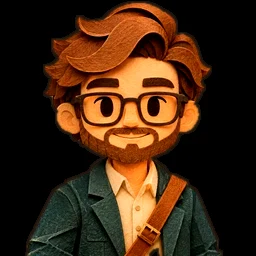
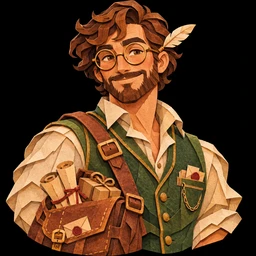
James's new art from the owner: pixel-art walk sheet and papercraft portrait in the village's style (#324)
Claude-Session: https://claude.ai/code/session_01Y5Vq5MY5R98tUMSQqTrVD3

diff --git a/index.html b/index.html
@@ -47,4 +47,4 @@ html:not([data-paperworld-maintenance="yes"]) .building-placement-panel,
 html:not([data-paperworld-maintenance="yes"]) .crow-technical-tools,
 html:not([data-paperworld-maintenance="yes"]) .village-maintenance-only {display:none!important}
 </style><script>if(new URLSearchParams(location.search).get('maintenance')==='1')document.documentElement.dataset.paperworldMaintenance='yes'</script></head><body><header><strong>PAPERWORLD</strong><span>YOUR LIVING AI VILLAGE</span></header><div class="layout"><main id="view"><canvas id="map" aria-label="Paperworld enlarged village preview; drag to move camera and tap a building to inspect"></canvas><div class="controls"><button id="path-editor-toggle" type="button" aria-pressed="false" title="Σχεδίαση διαδρομών">Paths</button><button id="building-placement-toggle" type="button" aria-pressed="false" title="Μετακίνηση κτιρίων">Τοποθέτηση κτιρίων</button><button id="world-talk-matt" type="button" aria-label="Talk to Matt" title="Talk to Matt">M</button><button id="world-work-panel" type="button" aria-label="Οι εργασίες μου" title="Οι εργασίες μου">✓</button><button id="depth-demo" class="depth-demo" type="button" aria-label="Cycle isometric depth test">Depth test: Off</button><button id="plus" aria-label="Zoom in">+</button><button id="minus" aria-label="Zoom out">−</button><button id="home" aria-label="Fit world">⌂</button></div><section id="path-editor-panel" class="building-placement-panel path-editor-panel" hidden aria-label="Σχεδιασμός διαδρομών"><strong>Σχεδίαση διαδρομών</strong><p id="path-editor-status">Επεξεργασία διαδρομών</p><label for="path-editor-mode">Εργαλείο</label><select id="path-editor-mode"><option value="draw">Σχεδίαση / σύνδεση</option><option value="move">Μετακίνηση κόμβου</option><option value="erase">Διαγραφή σύνδεσης</option><option value="hidden">Κρυφή διαδρομή</option></select><label class="path-editor-check"><input id="path-editor-show-hidden" type="checkbox" checked> Εμφάνιση κρυφών διαδρομών</label><div class="building-placement-actions"><button id="path-editor-undo" type="button">Αναίρεση</button><button id="path-editor-reset" type="button">Επαναφορά paths</button><button id="path-editor-copy" type="button">Αντιγραφή paths</button><button id="path-editor-finish" type="button">Τέλος</button></div><textarea id="path-editor-export" rows="6" readonly hidden aria-label="Path survey JSON"></textarea><small>Δοκιμαστικό σχέδιο μόνο σε αυτόν τον browser. Οι χαρακτήρες συνεχίζουν να χρησιμοποιούν τα εγκεκριμένα paths μέχρι να τα επιβεβαιώσουμε.</small></section><section id="building-placement-panel" class="building-placement-panel" hidden aria-label="Επεξεργασία θέσεων κτιρίων"><strong>Τοποθέτηση κτιρίων</strong><p id="building-placement-status">Άγγιξε ένα κτίριο για να το επιλέξεις.</p><div class="building-placement-actions"><button id="building-nudge-left" type="button" aria-label="Αριστερά">←</button><button id="building-nudge-right" type="button" aria-label="Δεξιά">→</button><button id="building-nudge-up" type="button" aria-label="Πάνω">↑</button><button id="building-nudge-down" type="button" aria-label="Κάτω">↓</button><button id="building-placement-reset" type="button">Επαναφορά κτιρίου</button><button id="building-placement-reset-all" type="button">Επαναφορά όλων</button><button id="building-placement-copy" type="button">Αντιγραφή θέσεων</button><button id="building-placement-finish" type="button">Τέλος</button></div><textarea id="building-placement-export" rows="6" readonly hidden aria-label="Building placement JSON"></textarea><small>Οι αλλαγές αποθηκεύονται μόνο σε αυτόν τον browser. Η κανονική λειτουργία του χωριού δεν αλλάζει μέχρι το τελικό PR.</small></section><div class="hint">Άγγιξε το χωριό για να περπατήσεις · M: Matt · T: κοντινός συνεργάτης</div></main><aside id="world-drawer" hidden><div class="world-drawer-head"><small>ΟΙ ΕΡΓΑΣΙΕΣ ΜΟΥ</small><button id="close-world-drawer" type="button" aria-label="Close work desk">×</button></div><h1 id="name">Το χωριό σου</h1><p id="desc">Επίλεξε ένα κτίριο ή μίλησε στον Matt.</p><div class="workspace-actions"><button id="walkway-overlay" type="button" class="open-projects" aria-label="Toggle walkable path overlay" aria-pressed="false" title="Show collision-checked walkable paths">Paths: Off</button><button id="call-visual-meeting" type="button" class="open-projects" title="Οπτική συνάντηση και πραγματική ενημέρωση εργασιών · χωρίς AI κλήση">Town Hall · συντονισμός</button><button id="open-projects" class="open-projects" type="button">Οι εργασίες μου</button><button id="open-chief" class="open-projects chief-launch" type="button">Talk to Matt</button></div><details class="dev-tools"><summary>Map calibration tools</summary><div class="marker-editor"><button id="calibrate-marker" type="button" disabled>Place marker on door</button><button id="reset-marker" type="button" disabled>Reset</button><p id="marker-status">Select a building to adjust its marker.</p><button id="export-markers" type="button">Copy all 5 door positions</button><textarea id="marker-export-output" rows="5" readonly hidden aria-label="Door calibration coordinates"></textarea></div></details><details class="dev-tools"><summary>Technical asset status</summary><section><b>Village status</b><div id="assets"></div><p>Five project rooms are available. Navigation and artwork refinement continues.</p></section></details><div id="project-room" class="project-room" hidden aria-live="polite"></div><p class="disclaimer">Οι σημαντικές αποφάσεις και οι δημοσιεύσεις παραμένουν υπό τον έλεγχό σου.</p></aside></div><script src="./js/i18n.js?v=bilingual-v1-context" defer></script><script src="./js/owner-path-survey.js?v=20261121-74" defer></script><script src="./js/navigation.js?v=owner-survey-safe-v5" defer></script><script src="./js/path-editor.js?v=1" defer></script><script src="./js/depth.js?v=sidewalk-depth-v2" defer></script><script src="./js/projects.js" defer></script><script src="./js/rooms-ui.js" defer></script><script src="./js/cloud.js?v=bilingual-v1-suno-cap-tidy-push-tools-link-stage-ideas-inventory-redo-james-shop-page-mike" defer></script><script src="./js/agent-conversation-store.js?v=43-mike" defer></script><script src="./js/chief.js?v=28" defer></script><script src="./js/agents.js?v=39-mike" defer></script><script src="./js/director-memory-review.js?v=2-r2-f1" defer></script><script src="./js/director-history-import.js?v=1" defer></script><script src="./js/director-history-import-ui.js?v=1-f1" defer></script><script src="./js/listening-review.js?v=human-first-v3" defer></script><script src="./js/autonomy-public-feed.js?v=unattended-v5" defer></script><script src="./js/human-first-hub.js?v=responsive-1-tidy-slim-f2" defer></script><script src="./js/town-hall-briefing.js?v=integrated-v4-f1" defer></script><script src="./js/village-activity.js?v=human-v3-reasons-audit-r2-redone" defer></script><script src="./js/cloud-ui.js?v=release-1-phase2-tidy-push-ideas-audit-r2-f1-redo-shop-page-mike" defer></script><script src="./js/visual-agent-workflow.js?v=1" defer></script><script src="./js/director-movement.js?v=owner-connected-v2-townhall" defer></script><script src="./js/town-hall-interior.js?v=3-scene-audit-r2-week-fast" defer></script><script src="./js/workspace-interior.js?v=3-scenes-audit-james-mike-art" defer></script><script src="./js/push-notify.js?v=2-app" defer></script><script src="./js/director-actions-client.js?v=2-studio-v2-voice2" defer></script><script src="./js/proof.js?v=4-redone" defer></script>
-<script src="./js/village-life.js?v=3-strolls-work" defer></script><script src="./js/camera-framing.js?v=responsive-1-board-follow" defer></script><script src="./js/resident-status.js?v=1&stall=1-audit-f1-redo-redone" defer></script><script src="./js/village-ambience.js?v=2-night" defer></script><script src="./js/village-sound.js?v=1" defer></script><script src="./js/app.js?v=responsive-1-living-v3-board-follow-night-townhall-ws-audit-f2-shop2-mike-art-fast-style2" defer></script><script src="./js/matt-history.js?v=full-replies-v3-notify-all" defer></script><script src="./js/agent-profiles.js?v=3-mike-mike-art-style2" defer></script><script src="./js/team-panel.js?v=responsive-1-mike" defer></script><script src="./js/crow-suno-prompt.js?v=1" defer></script><script src="./js/crow-studio-draft.js?v=7-truthful-handoff-wordless-studio-v2-voice2" defer></script><script src="./js/messenger-format.js?v=messenger-v2-1" defer></script><script src="./js/routine-intent.js?v=release-1" defer></script><script src="./js/voice-input.js?v=1" defer></script><script src="./js/world-dialogue.js?v=release-1-routine-v4-composer-fix-cards-v2-phase5-living-context-starters-chime-handoff-tools-voice-ideas-audit-mem-song2-studio-v2-suno-inventory-voice2-f1-redo-b8-mike" defer></script><script src="./js/connection-status.js?v=responsive-1" defer></script><script src="./js/workspace.js?v=bilingual-v1-tidy-sound-push-ideas-proof-audit-mem-f2-redo-james-shop-page-mike" defer></script><script src="./js/resident-feed.js?v=1-board-fast-audit-week" defer></script><script src="./js/village-board.js?v=2-mike" defer></script></body></html>
+<script src="./js/village-life.js?v=3-strolls-work" defer></script><script src="./js/camera-framing.js?v=responsive-1-board-follow" defer></script><script src="./js/resident-status.js?v=1&stall=1-audit-f1-redo-redone" defer></script><script src="./js/village-ambience.js?v=2-night" defer></script><script src="./js/village-sound.js?v=1" defer></script><script src="./js/app.js?v=responsive-1-living-v3-board-follow-night-townhall-ws-audit-f2-shop2-mike-art-fast-style2-james2" defer></script><script src="./js/matt-history.js?v=full-replies-v3-notify-all" defer></script><script src="./js/agent-profiles.js?v=3-mike-mike-art-style2-james2" defer></script><script src="./js/team-panel.js?v=responsive-1-mike" defer></script><script src="./js/crow-suno-prompt.js?v=1" defer></script><script src="./js/crow-studio-draft.js?v=7-truthful-handoff-wordless-studio-v2-voice2" defer></script><script src="./js/messenger-format.js?v=messenger-v2-1" defer></script><script src="./js/routine-intent.js?v=release-1" defer></script><script src="./js/voice-input.js?v=1" defer></script><script src="./js/world-dialogue.js?v=release-1-routine-v4-composer-fix-cards-v2-phase5-living-context-starters-chime-handoff-tools-voice-ideas-audit-mem-song2-studio-v2-suno-inventory-voice2-f1-redo-b8-mike" defer></script><script src="./js/connection-status.js?v=responsive-1" defer></script><script src="./js/workspace.js?v=bilingual-v1-tidy-sound-push-ideas-proof-audit-mem-f2-redo-james-shop-page-mike" defer></script><script src="./js/resident-feed.js?v=1-board-fast-audit-week" defer></script><script src="./js/village-board.js?v=2-mike" defer></script></body></html>

diff --git a/js/agent-profiles.js b/js/agent-profiles.js
@@ -7,7 +7,7 @@ const roster=Object.freeze({
  'studio-director':{name:'Crow',role:'Director',project:'The Lost Wanderer',kind:'director',portrait:'./assets/portraits/crow.webp',sheet:'studio-director-hooded-v2.png',rect:[96,0,96,132]},
  'wellbeing-director':{name:'Dave',role:'Director',project:'Wellbeing & Training',kind:'director',portrait:'./assets/portraits/dave.webp',sheet:'wellbeing-director-walk-hq-v2.png',rect:[64,0,64,88]},
  // James: the village trader. His own project: researching, making and selling digital products.
- 'shop-director':{name:'James',role:'Director',project:'Digital Shop',kind:'director',portrait:'./assets/portraits/james.webp?v=style2',sheet:'shop-director-walk-v1.png',rect:[0,0,64,88]},
+ 'shop-director':{name:'James',role:'Director',project:'Digital Shop',kind:'director',portrait:'./assets/portraits/james.webp?v=v2',sheet:'shop-director-walk-v2.png',rect:[0,0,64,88]},
  // Mike: watches the owner's stocks and ETFs. Read-only, private, never advises.
  'markets-director':{name:'Mike',role:'Director',project:'Markets',kind:'director',portrait:'./assets/portraits/mike.webp?v=style2',sheet:'markets-director-walk-v1.png',rect:[0,0,64,88]},
  'listening-developer':{name:'Listening Mirror Developer',role:'Worker',project:'Listening Mirror',kind:'worker'},

diff --git a/js/app.js b/js/app.js
@@ -303,7 +303,7 @@ function drawWellbeingDirectorSprite(a){
 // James (shop): the owner's walk sheet, 4 directions x 4 frames of 64x88.
 const shopDirectorVisual=new Image();
 shopDirectorVisual.decoding='async';
-shopDirectorVisual.src='./assets/shop-director-walk-v1.png?v=style2';
+shopDirectorVisual.src='./assets/shop-director-walk-v2.png';
 // Mike (markets): the owner's walk sheet, same layout as James's.
 const marketsDirectorVisual=new Image();
 marketsDirectorVisual.decoding='async';
